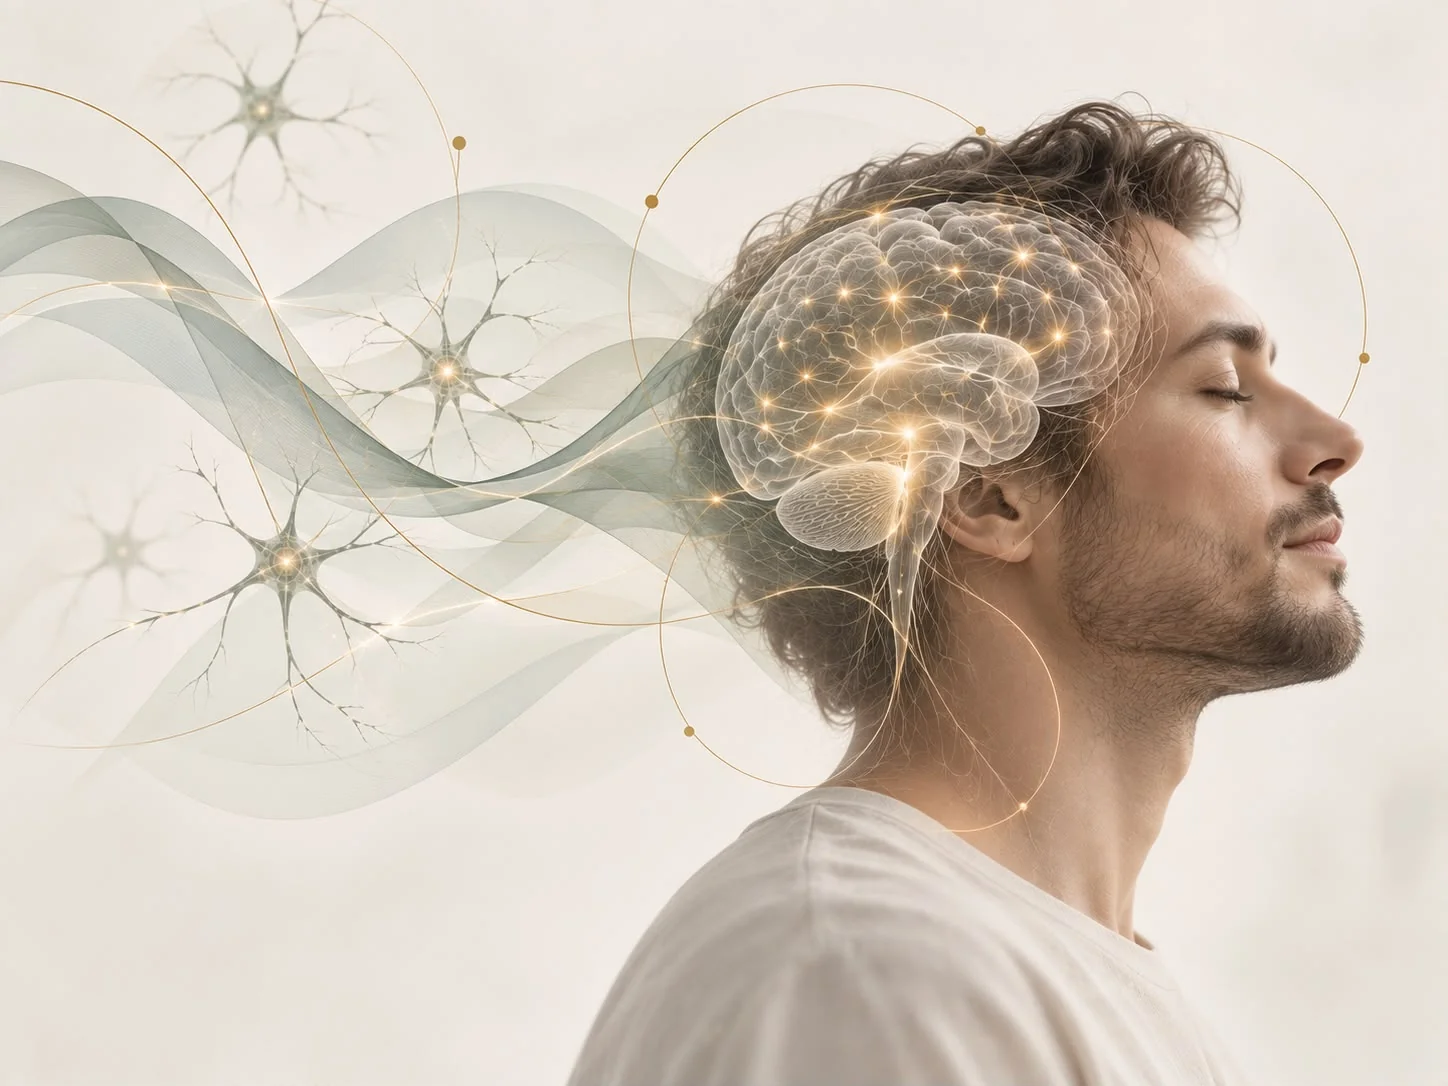
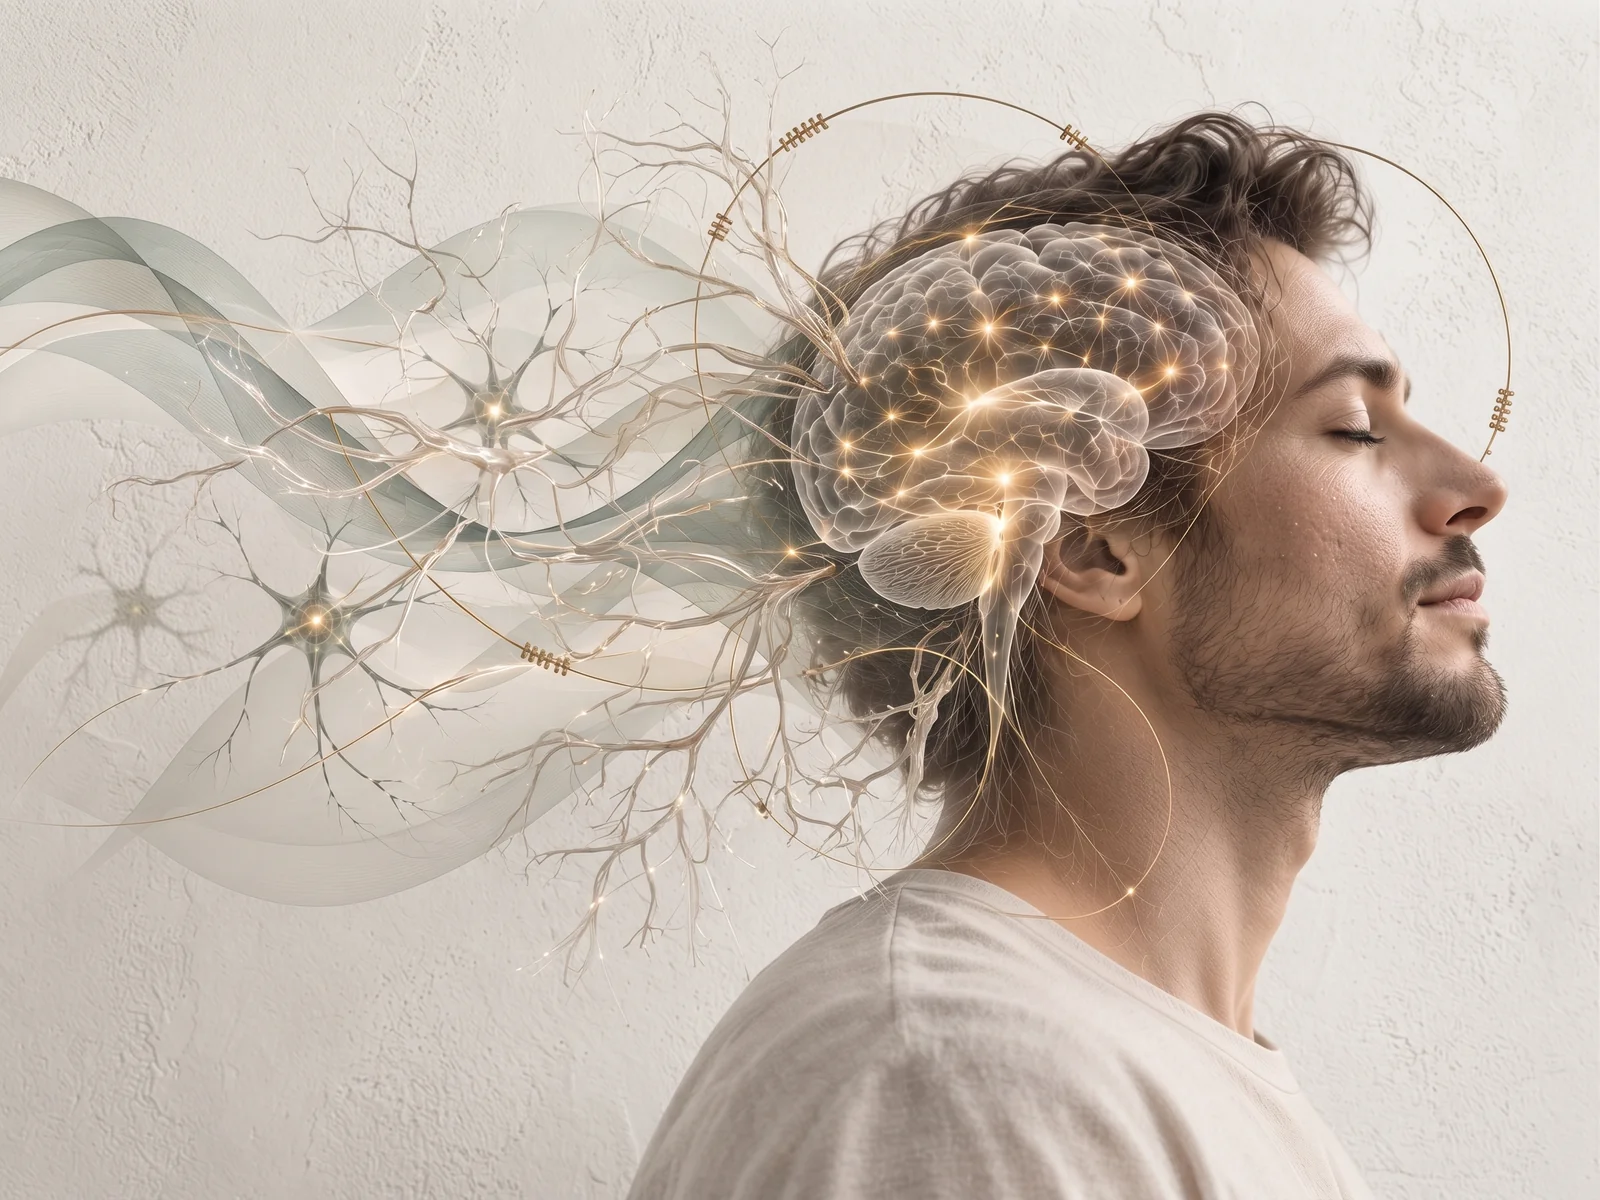
New specialty photos, Psih. for the psychologists
- The service photos are replaced with the new set, converted to WebP at
  1600px and named after the slug (the old files carried two typos). Each
  focal point re-checked against the new framing.
- Psychologists now carry "Psih." above the name, the way doctors carry
  "Dr."; the line used to repeat the title word for word.
- Alexandru Ungureanu is a psychology PhD candidate at UAIC since 2025: it
  goes in his timeline, and his title now has two lines, academic standing
  above clinical. Titles render with whitespace-pre-line.
- Dr. Irina Dobrin's title goes back to the specialty alone.
- Dr. Andreea Albu has a new portrait.

diff --git a/src/lib/fallback-data.ts b/src/lib/fallback-data.ts
@@ -154,8 +154,8 @@ export const fallbackDoctors: FallbackDoctor[] = [
     id: "alexandru-ungureanu",
     slug: "alexandru-ungureanu",
     name: "Alexandru Ungureanu",
-    title: "Psiholog clinician",
-    credentials: "Psiholog clinician",
+    title: "Doctorand în domeniul Psihologiei\nPsiholog clinician",
+    credentials: "Psih.",
     photo_url: null,
     short_bio:
       "Psiholog clinician și co-fondator Anova, dedicat binelui și echilibrului pacienților.",
@@ -186,7 +186,7 @@ export const fallbackDoctors: FallbackDoctor[] = [
     id: "irina-dobrin",
     slug: "irina-dobrin",
     name: "Irina Dobrin",
-    title: "Medic Primar Psihiatrie, Terapie dialectic-comportamentală",
+    title: "Medic Primar Psihiatrie",
     credentials: "Dr., șef de lucrări",
     photo_url: null,
     short_bio:
@@ -441,7 +441,7 @@ export const fallbackDoctors: FallbackDoctor[] = [
     slug: "mihaela-ungureanu",
     name: "Mihaela Ungureanu",
     title: "Psiholog clinician, Psihoterapeut TCC",
-    credentials: "Psiholog clinician",
+    credentials: "Psih.",
     photo_url: null,
     short_bio:
       "Psiholog clinician specializat în terapie cognitiv-comportamentală și dialectic-comportamentală.",
@@ -457,7 +457,7 @@ export const fallbackDoctors: FallbackDoctor[] = [
     slug: "ramona-costiug",
     name: "Ramona Coștiug",
     title: "Psiholog clinician",
-    credentials: "Psiholog clinician",
+    credentials: "Psih.",
     photo_url: null,
     short_bio:
       "Psiholog clinician cu formare în psihoterapie integrativă, centrată pe soluții.",
@@ -473,7 +473,7 @@ export const fallbackDoctors: FallbackDoctor[] = [
     slug: "dan-chirila",
     name: "Dan Chirilă",
     title: "Psiholog clinician",
-    credentials: "Psiholog clinician",
+    credentials: "Psih.",
     photo_url: null,
     short_bio:
       "Psiholog clinician care creează un spațiu sigur pentru auto-descoperire și transformare.",
@@ -489,7 +489,7 @@ export const fallbackDoctors: FallbackDoctor[] = [
     slug: "paula-stanciulescu",
     name: "Paula Stănciulescu",
     title: "Psiholog clinician",
-    credentials: "Psiholog clinician",
+    credentials: "Psih.",
     photo_url: null,
     short_bio:
       "Psiholog clinician și psihoterapeut, specializată în terapia copilului și adolescentului.",
@@ -505,7 +505,7 @@ export const fallbackDoctors: FallbackDoctor[] = [
     slug: "banu-adelina",
     name: "Adelina Banu",
     title: "Psiholog clinician",
-    credentials: "Psiholog clinician",
+    credentials: "Psih.",
     photo_url: null,
     short_bio:
       "Psiholog clinician, alături de pacienți în explorarea gândurilor și emoțiilor.",

diff --git a/src/lib/specialty-images.ts b/src/lib/specialty-images.ts
@@ -11,12 +11,12 @@ import path from "node:path";
  * fiecare imagine, când optimizatorul trebuia să o decodeze.
  */
 const SERVICE_IMAGES: Record<string, string> = {
-  psihiatrie: "/servicii/Psihiatrie.webp",
-  "psihiatrie-pediatrica": "/servicii/PsihiatriePedriatica.webp",
-  psihologie: "/servicii/Psihologie.webp",
-  neurologie: "/servicii/Neurologie.webp",
-  cardiologie: "/servicii/Cardiologie.webp",
-  endocrinologie: "/servicii/Endocrionologie.webp",
+  psihiatrie: "/servicii/psihiatrie.webp",
+  "psihiatrie-pediatrica": "/servicii/psihiatrie-pediatrica.webp",
+  psihologie: "/servicii/psihologie.webp",
+  neurologie: "/servicii/neurologie.webp",
+  cardiologie: "/servicii/cardiologie.webp",
+  endocrinologie: "/servicii/endocrinologie.webp",
 };
 
 /** Returnează calea imaginii specialității dacă fișierul există în /public. */
@@ -37,12 +37,12 @@ export function specialtyImage(slug: string): string | null {
  * persoanei. Valorile de mai jos mută decupajul spre subiect.
  */
 const IMAGE_FOCUS: Record<string, string> = {
-  psihiatrie: "84% 50%",
-  "psihiatrie-pediatrica": "62% 50%",
-  neurologie: "72% 50%",
-  cardiologie: "72% 50%",
-  endocrinologie: "62% 50%",
-  psihologie: "45% 50%",
+  psihiatrie: "82% 50%",
+  "psihiatrie-pediatrica": "60% 50%",
+  neurologie: "82% 50%",
+  cardiologie: "78% 50%",
+  endocrinologie: "78% 50%",
+  psihologie: "40% 50%",
 };
 
 /** `object-position` pentru imaginea specialității; centrat, dacă nu e definit. */

diff --git a/src/lib/data.ts b/src/lib/data.ts
@@ -93,9 +93,10 @@ const loadDoctors = unstable_cache(
   // Cheia crește la fiecare scriere directă în baza de date: `v2` — descrierile
   // s-au mutat din cod în baze; `v3` — titulaturile au trecut la denumirea
   // specialității (0006); `v4` — s-au adăugat competențele de psihoterapie
-  // (0007). Cache-ul de date supraviețuiește deploy-urilor, iar sub cheia veche
+  // (0007); `v5` — psihologii au primit „Psih.” în credențiale (0008).
+  // Cache-ul de date supraviețuiește deploy-urilor, iar sub cheia veche
   // site-ul ar fi servit până la o oră conținutul de dinainte de migrație.
-  ["doctors-v4"],
+  ["doctors-v5"],
   { tags: [DOCTORS_TAG], revalidate: REVALIDATE },
 );
 

diff --git a/src/components/doctor-flip-card.tsx b/src/components/doctor-flip-card.tsx
@@ -69,8 +69,10 @@ export function DoctorFlipCard({
             <h3 className="mt-1 text-sm leading-tight text-foreground sm:text-lg">
               {doctor.name}
             </h3>
+            {/* `whitespace-pre-line`: un titlu poate avea două rânduri
+                (calitatea academică, apoi cea clinică). */}
             {doctor.title && (
-              <p className="mt-0.5 text-xs text-muted-foreground sm:text-sm">
+              <p className="mt-0.5 whitespace-pre-line text-xs text-muted-foreground sm:text-sm">
                 {doctor.title}
               </p>
             )}

diff --git a/src/app/(site)/echipa/[slug]/page.tsx b/src/app/(site)/echipa/[slug]/page.tsx
@@ -147,7 +147,9 @@ export default async function DoctorPage({
                       {doctor.name}
                     </h1>
                     {doctor.title && (
-                      <p className="text-muted-foreground">{doctor.title}</p>
+                      <p className="whitespace-pre-line text-muted-foreground">
+                        {doctor.title}
+                      </p>
                     )}
                     {specialties.length > 0 && (
                       <div className="flex flex-wrap gap-1.5 pt-1">

diff --git a/src/lib/doctor-details.ts b/src/lib/doctor-details.ts
@@ -167,6 +167,7 @@ export const doctorDetails: Record<string, DoctorDetails> = {
     current: [
       { period: "2020 – prezent", text: "Cursuri de formare în Psihoterapie Integrativă – Asociația de Psihoterapie Integrativă și Psihologie Clinică" },
       { period: "2023 – prezent", text: "Psiholog clinician – ANOVA Medical Clinic, Iași" },
+      { period: "2025 – prezent", text: "Doctorand în domeniul Psihologiei – Universitatea „Alexandru Ioan Cuza”, Iași" },
     ],
   },
 

diff --git a/src/components/doctor-card.tsx b/src/components/doctor-card.tsx
@@ -52,7 +52,7 @@ export function DoctorCard({
           <ArrowUpRight className="mt-0.5 size-4 shrink-0 text-muted-foreground transition-all duration-300 group-hover:-translate-y-0.5 group-hover:translate-x-0.5 group-hover:text-primary sm:mt-1" />
         </h3>
         {doctor.title && (
-          <p className="text-xs text-muted-foreground sm:text-sm">
+          <p className="whitespace-pre-line text-xs text-muted-foreground sm:text-sm">
             {doctor.title}
           </p>
         )}

diff --git a/src/components/home/service-card.tsx b/src/components/home/service-card.tsx
@@ -90,7 +90,7 @@ export function ServiceCard({
                   </span>
                   {d.title && (
                     <span className="block truncate text-xs text-muted-foreground">
-                      {d.title}
+                      {d.title.split("\n").join(", ")}
                     </span>
                   )}
                 </span>
